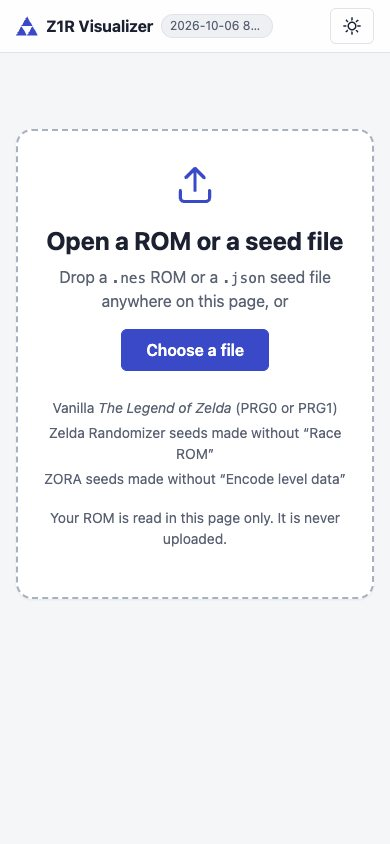
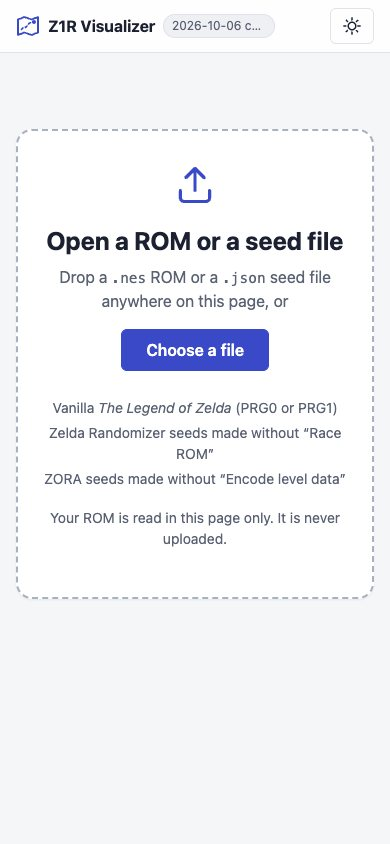
Design mockups: replace the triforce mark with an original map mark

Changed region(s): [[0.1231, 0.0, 0.4, 0.0616], [0.4308, 0.0, 0.6154, 0.0616], [0.0308, 0.0, 0.0923, 0.0616]]

diff --git a/docs/design/mockup-atlas.html b/docs/design/mockup-atlas.html
@@ -105,7 +105,7 @@ body[data-state="empty"] #messages .box.info { display: none; }  /* the drop are
   border-bottom: 1px solid var(--border);
 }
 .brand { display: flex; align-items: center; gap: var(--sp-2); margin-right: auto; min-width: 0; }
-.mark { width: 22px; height: 20px; fill: var(--accent); flex: none; }
+.mark { width: 24px; height: 24px; color: var(--accent); fill: var(--accent); flex: none; }
 .brand-name { font-weight: 700; font-size: var(--fs-lg); letter-spacing: -0.01em; white-space: nowrap; }
 .chip {
   font-size: var(--fs-xs); color: var(--muted); background: var(--surface-2);
@@ -295,9 +295,9 @@ button.link {
 <a class="skip" href="#main">Skip to content</a>
 <header class="topbar">
   <div class="brand">
-    <svg class="mark" viewBox="0 0 24 21" aria-hidden="true"><path d="M12 0l6 10.5H6zM6 10.5L12 21H0zM18 10.5L24 21H12z"/></svg>
+    <svg class="mark" viewBox="0 0 24 24" aria-hidden="true"><path d="M2 5.5l6.5-2.5 7 2.5 6.5-2.5v15.5l-6.5 2.5-7-2.5-6.5 2.5z" fill="none" stroke="currentColor" stroke-width="1.8" stroke-linejoin="round"/><path d="M5.5 15.5c2-3 4-1 6-4s3.5-3.5 5.5-3.5" fill="none" stroke="currentColor" stroke-width="1.8" stroke-linecap="round" stroke-dasharray="2.2 2.4"/><circle cx="18" cy="8" r="1.9"/></svg>
     <span class="brand-name">Z1R Visualizer</span>
-    <span class="chip" id="version">2026-10-06 8b4c129 mockup</span>
+    <span class="chip" id="version">2026-10-06 c6f84b8 mockup</span>
   </div>
   <div class="file" data-loaded-only>
     <span class="file-name" data-file-name></span>

diff --git a/docs/design/atlas/shell.html b/docs/design/atlas/shell.html
@@ -11,7 +11,7 @@
 <a class="skip" href="#main">Skip to content</a>
 <header class="topbar">
   <div class="brand">
-    <svg class="mark" viewBox="0 0 24 21" aria-hidden="true"><path d="M12 0l6 10.5H6zM6 10.5L12 21H0zM18 10.5L24 21H12z"/></svg>
+    <svg class="mark" viewBox="0 0 24 24" aria-hidden="true"><path d="M2 5.5l6.5-2.5 7 2.5 6.5-2.5v15.5l-6.5 2.5-7-2.5-6.5 2.5z" fill="none" stroke="currentColor" stroke-width="1.8" stroke-linejoin="round"/><path d="M5.5 15.5c2-3 4-1 6-4s3.5-3.5 5.5-3.5" fill="none" stroke="currentColor" stroke-width="1.8" stroke-linecap="round" stroke-dasharray="2.2 2.4"/><circle cx="18" cy="8" r="1.9"/></svg>
     <span class="brand-name">Z1R Visualizer</span>
     <span class="chip" id="version">{{VERSION}}</span>
   </div>

diff --git a/docs/design/atlas/style.css b/docs/design/atlas/style.css
@@ -97,7 +97,7 @@ body[data-state="empty"] #messages .box.info { display: none; }  /* the drop are
   border-bottom: 1px solid var(--border);
 }
 .brand { display: flex; align-items: center; gap: var(--sp-2); margin-right: auto; min-width: 0; }
-.mark { width: 22px; height: 20px; fill: var(--accent); flex: none; }
+.mark { width: 24px; height: 24px; color: var(--accent); fill: var(--accent); flex: none; }
 .brand-name { font-weight: 700; font-size: var(--fs-lg); letter-spacing: -0.01em; white-space: nowrap; }
 .chip {
   font-size: var(--fs-xs); color: var(--muted); background: var(--surface-2);
